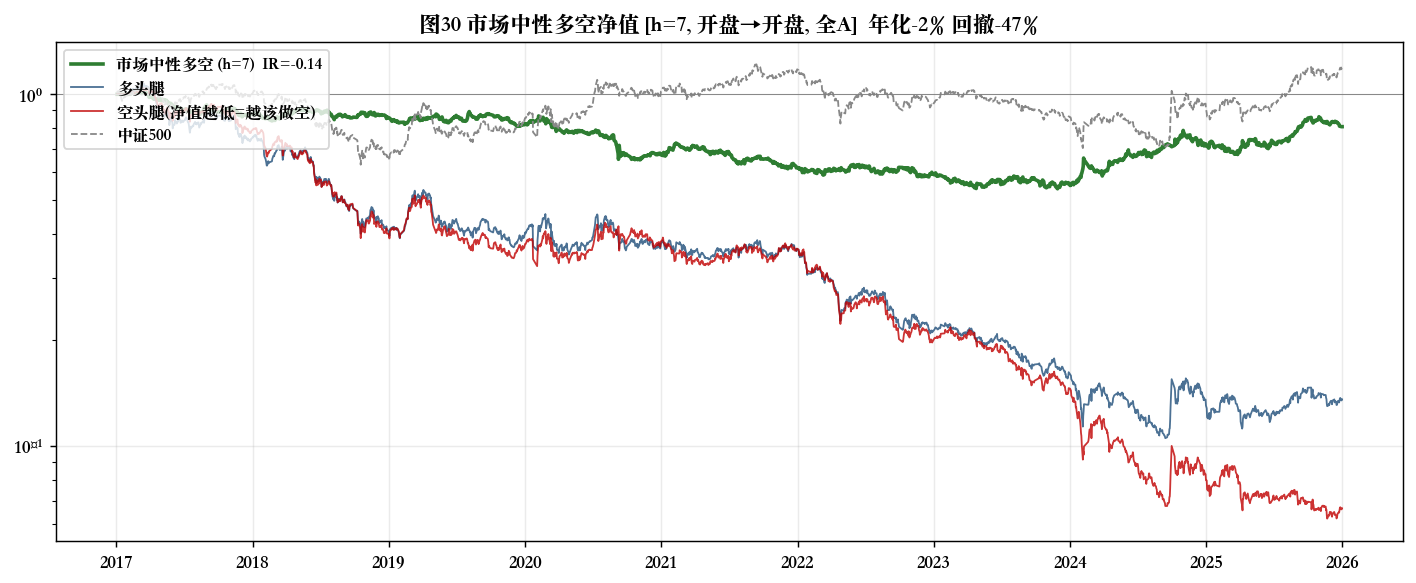
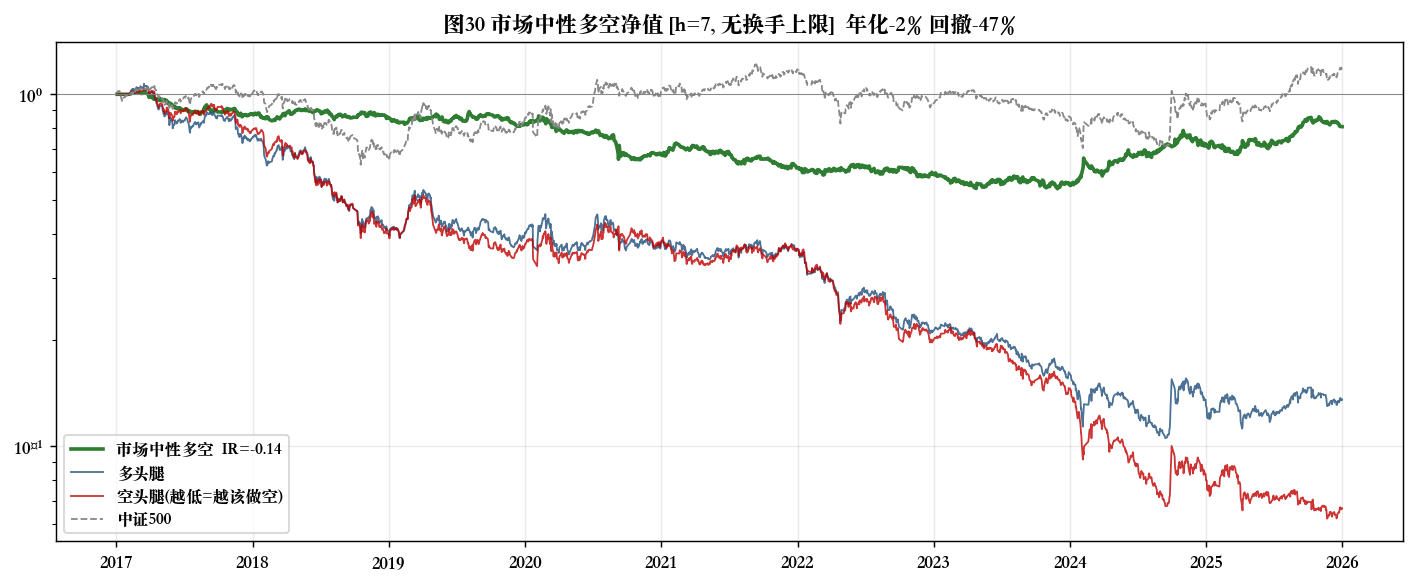
§3.6 market-neutral: forced turnover caps (≤60/40/20%) — strategy is cost-dominated
market_neutral.py now sweeps a per-leg single-rebalance turnover cap (partial move
toward the fresh decile, the report's §3.5 risk-constraint control). Baseline turnover
is 125x/yr (decile fully rotates each 7-day rebalance, ≈100% one-side per leg).

Tightening the cap improves return/IR/drawdown MONOTONICALLY:
  no cap:  -1.7%  IR -0.14  maxDD -47%  turn 125x
  ≤60%:    +0.1%  IR  0.01  maxDD -32%  turn  86x
  ≤40%:    +0.9%  IR  0.11  maxDD -21%  turn  58x
  ≤20%:    +1.4%  IR  0.21  maxDD -16%  turn  29x

The signal is cost-dominated: cost savings (~20%->~5%/yr) outweigh the signal dilution,
flipping it from negative to marginally positive — an empirical confirmation of the
report's §3.5 turnover/excess balance. But even the best tier (≤20%) is only +1.4% /
IR 0.21: realistic OOS tradable return stays thin. Adds fig31 + turnover table.

diff --git a/scripts/market_neutral.py b/scripts/market_neutral.py
@@ -3,9 +3,12 @@
 Dollar-neutral decile long-short: long the top-decile of Ê(α), short the bottom-decile,
 equal-weight each leg, rebalance every HOLD trading days, execute at next-day open,
 mark to market DAILY (open-to-open). Transaction cost Tc on rebalance turnover.
-Outputs a daily NAV curve (fig30), long/short leg decomposition vs CSI500, and overall
-+ yearly performance (table). This is the tradable form of the signal (vs the failing
-long-only book) — requires the ability to short.
+
+A per-leg single-rebalance turnover cap (None / 0.6 / 0.4 / 0.2) is applied by a
+partial move toward the fresh decile (w_new = w_old + α·(target − w_old), α = cap/turn)
+— the report's §3.5 risk-constraint turnover control. Compares the cap tiers
+(fig31/table); also writes the baseline leg decomposition (fig30). Shortable universe
+(liquid top-1500, ex-ST — A-share shorting is limited to the securities-lending list).
 """
 import os
 import sys
@@ -22,6 +25,7 @@ _ROOT = os.path.abspath(os.path.join(os.path.dirname(__file__), ".."))
 sys.path.insert(0, _ROOT); sys.path.insert(0, os.path.join(_ROOT, "src"))
 import config            # noqa: E402
 import data_loader as dl  # noqa: E402
+import strategy as stg    # noqa: E402
 
 for _f in ("PingFang SC", "Heiti SC", "Songti SC", "Arial Unicode MS", "STHeiti"):
     if any(_f in f.name for f in font_manager.fontManager.ttflist):
@@ -29,21 +33,70 @@ for _f in ("PingFang SC", "Heiti SC", "Songti SC", "Arial Unicode MS", "STHeiti"
 rcParams["axes.unicode_minus"] = False
 BLUE, RED, GREEN, GREY = "#1f4e79", "#c00000", "#2e7d32", "#888888"
 TC = config.STRAT_TC
-HOLD = 7
-DECILE = 0.10
-MAXUNI = 1500
-Y = 252
+HOLD, DECILE, MAXUNI, Y = 7, 0.10, 1500, 252
 
 
-def perf(daily_ret, nav):
-    r = pd.Series(daily_ret).dropna()
-    ann = r.mean() * Y
-    vol = r.std() * np.sqrt(Y)
-    ir = ann / vol if vol > 0 else np.nan
-    nav = pd.Series(nav)
-    mdd = (nav / nav.cummax() - 1.0).min()
-    return {"ann_return": ann, "ann_vol": vol, "IR": ir, "max_drawdown": mdd,
-            "win_rate": float((r > 0).mean())}
+def _cap_move(w_old, w_tgt, cap):
+    """Partial move toward the target decile so one-side turnover ≤ cap."""
+    if cap is None:
+        return w_tgt
+    t = float(np.abs(w_tgt.to_numpy() - w_old.to_numpy()).sum()) / 2.0
+    if t <= cap or t == 0:
+        return w_tgt
+    return w_old + (cap / t) * (w_tgt - w_old)
+
+
+def run_ls(op, amt, pw, oo_daily, mkt, codes, dates, st_iv, turnover_cap=None):
+    code_index = pd.Index(codes); T = len(dates)
+    first = pw.notna().any(axis=1).to_numpy().argmax()
+    exec_days = set(range(first + 1, T - 1, HOLD))
+    lw = pd.Series(0.0, index=codes); sw = pd.Series(0.0, index=codes)
+    pend, rec, turns = {}, [], []
+    nav_ls = nav_long = nav_short = nav_mkt = 1.0
+    for j in range(T):
+        cost = 0.0
+        if j in pend:
+            tl_w, ts_w = pend.pop(j)
+            tl_w = _cap_move(lw, tl_w, turnover_cap)
+            ts_w = _cap_move(sw, ts_w, turnover_cap)
+            t_l = float(np.abs(tl_w.to_numpy() - lw.to_numpy()).sum()) / 2.0
+            t_s = float(np.abs(ts_w.to_numpy() - sw.to_numpy()).sum()) / 2.0
+            cost = TC * (t_l + t_s); turns.append(t_l + t_s)
+            lw, sw = tl_w, ts_w
+        r = oo_daily.iloc[j].fillna(0.0).to_numpy()
+        lr = float(np.dot(lw.to_numpy(), r)); sr = float(np.dot(sw.to_numpy(), r))
+        ls_ret = lr - sr - cost
+        mr = float(mkt.iloc[j]) if np.isfinite(mkt.iloc[j]) else 0.0
+        nav_ls *= (1 + ls_ret); nav_long *= (1 + lr - cost / 2); nav_short *= (1 + sr); nav_mkt *= (1 + mr)
+        rec.append((dates[j], nav_ls, nav_long, nav_short, nav_mkt, ls_ret, lr, sr, mr))
+        for w in (lw, sw):
+            g = w.to_numpy() * (1 + r); s = g.sum()
+            if s > 0:
+                w.iloc[:] = g / s
+        if (j + 1) in exec_days and j + 1 < T:
+            d = dates[j]
+            st_set = stg.is_st_on(st_iv, d)
+            ok = (oo_daily.iloc[j].notna() & oo_daily.iloc[j + 1].notna() & pw.iloc[j].notna()
+                  & (amt.iloc[j].fillna(0) > 0)).to_numpy()
+            ok &= ~code_index.isin(st_set)
+            liq = amt.iloc[j].reindex(code_index[ok]).fillna(0).sort_values(ascending=False)
+            x = pw.iloc[j].reindex(liq.head(MAXUNI).index).dropna().sort_values()
+            k = max(int(len(x) * DECILE), 1)
+            nlw = pd.Series(0.0, index=codes); nlw[x.index[-k:]] = 1.0 / k
+            nsw = pd.Series(0.0, index=codes); nsw[x.index[:k]] = 1.0 / k
+            pend[j + 1] = (nlw, nsw)
+    dd = pd.DataFrame(rec, columns=["trade_date", "nav_ls", "nav_long", "nav_short",
+                                    "nav_mkt", "ls_ret", "long_ret", "short_ret", "mkt_ret"])
+    ann_turn = (np.mean(turns) * (Y / HOLD) * 2) if turns else 0.0
+    return dd, ann_turn
+
+
+def stats(dd):
+    r = dd["ls_ret"]
+    nav = dd["nav_ls"]
+    return {"ann": r.mean() * Y, "vol": r.std() * np.sqrt(Y),
+            "ir": r.mean() / r.std() * np.sqrt(Y) if r.std() > 0 else np.nan,
+            "mdd": (nav / nav.cummax() - 1).min(), "win": (r > 0).mean()}
 
 
 def main():
@@ -51,10 +104,7 @@ def main():
     panel = dl.load_panel(columns=["ts_code", "trade_date", "open", "amount", "adj_factor"])
     basic = dl.load_stock_basic(); uni = dl.select_universe(panel, basic)
     panel = panel[panel.ts_code.isin(uni)]
-    nc = pd.read_parquet(config.NAMECHANGE)
-    import strategy as stg
-    st_iv = stg.st_codes_by_date(nc)
-
+    st_iv = stg.st_codes_by_date(pd.read_parquet(config.NAMECHANGE))
     p = panel.sort_values(["ts_code", "trade_date"]).copy()
     p["open_hfq"] = p["open"] * p["adj_factor"]
     dates = np.sort(p.trade_date.unique()).astype(str); codes = sorted(p.ts_code.unique())
@@ -62,100 +112,56 @@ def main():
     amt = p.pivot(index="trade_date", columns="ts_code", values="amount").reindex(dates, axis=0).reindex(codes, axis=1)
     pw = pd.read_parquet(config.CACHE_DIR + "/alpha_pred_full_a.parquet").pivot(
         index="trade_date", columns="ts_code", values="pred").reindex(dates, axis=0).reindex(codes, axis=1)
-    oo_daily = (op.shift(-1) / op - 1.0)                          # open_j -> open_{j+1}
+    oo_daily = op.shift(-1) / op - 1.0
     csi = pd.read_parquet(config.CSI500_RAW); csi["trade_date"] = csi.trade_date.astype(str)
     bo = csi.set_index("trade_date")["open"].reindex(dates).astype(float)
-    mkt = (bo.shift(-1) / bo - 1.0)                               # CSI500 open-to-open
+    mkt = bo.shift(-1) / bo - 1.0
 
-    code_index = pd.Index(codes)
-    T = len(dates)
-    first = pw.notna().any(axis=1).to_numpy().argmax()           # first day with predictions
-    exec_days = set(range(first + 1, T - 1, HOLD))               # rebalance executions
-    lw = pd.Series(0.0, index=codes); sw = pd.Series(0.0, index=codes)
-    pend = {}
-    nav_ls, nav_long, nav_short, nav_mkt = 1.0, 1.0, 1.0, 1.0
-    rec, turns = [], []
+    caps = [("无上限(基线)", None), ("≤60%", 0.60), ("≤40%", 0.40), ("≤20%", 0.20)]
+    results, navs = [], {}
+    for name, cap in caps:
+        dd, ann_turn = run_ls(op, amt, pw, oo_daily, mkt, codes, dates, st_iv, cap)
+        s = stats(dd); navs[name] = dd
+        long_ex = (dd["long_ret"] - dd["mkt_ret"]).mean() * Y
+        short_ex = (dd["mkt_ret"] - dd["short_ret"]).mean() * Y
+        results.append((name, s["ann"], s["vol"], s["ir"], s["mdd"], ann_turn, long_ex, short_ex))
+        if cap is None:                                        # baseline leg decomposition (fig30)
+            dd.to_parquet(os.path.join(config.CACHE_DIR, "market_neutral_daily.parquet"), index=False)
+            fig, ax = plt.subplots(figsize=(11, 4.6))
+            x = pd.to_datetime([str(v) for v in dd["trade_date"]], format="%Y%m%d")
+            ax.plot(x, dd["nav_ls"], color=GREEN, lw=2, label=f"市场中性多空  IR={s['ir']:.2f}")
+            ax.plot(x, dd["nav_long"], color=BLUE, lw=1, alpha=0.8, label="多头腿")
+            ax.plot(x, dd["nav_short"], color=RED, lw=1, alpha=0.8, label="空头腿(越低=越该做空)")
+            ax.plot(x, dd["nav_mkt"], color=GREY, lw=1, ls="--", label="中证500")
+            ax.set_yscale("log"); ax.axhline(1, color="grey", lw=0.5)
+            ax.set_title(f"图30 市场中性多空净值 [h=7, 无换手上限]  年化{s['ann']*100:.0f}% 回撤{s['mdd']*100:.0f}%")
+            ax.legend(loc="lower left", fontsize=9); ax.grid(alpha=0.25)
+            fig.tight_layout(); fig.savefig(os.path.join(config.FIGURE_DIR, "fig30_market_neutral.png"), dpi=130, bbox_inches="tight"); plt.close(fig)
 
-    for j in range(T):
-        cost = 0.0
-        if j in pend:                                            # rebalance at open_j
-            nlw, nsw = pend.pop(j)
-            t_l = float(np.abs(nlw.to_numpy() - lw.to_numpy()).sum()) / 2.0
-            t_s = float(np.abs(nsw.to_numpy() - sw.to_numpy()).sum()) / 2.0
-            cost = TC * (t_l + t_s); turns.append(t_l + t_s)
-            lw, sw = nlw, nsw
-        r = oo_daily.iloc[j].fillna(0.0).to_numpy()
-        lr = float(np.dot(lw.to_numpy(), r)); sr = float(np.dot(sw.to_numpy(), r))
-        ls_ret = lr - sr - cost                                  # dollar-neutral spread
-        mr = float(mkt.iloc[j]) if np.isfinite(mkt.iloc[j]) else 0.0
-        nav_ls *= (1 + ls_ret); nav_long *= (1 + lr - cost / 2); nav_short *= (1 + sr); nav_mkt *= (1 + mr)
-        rec.append((dates[j], nav_ls, nav_long, nav_short, nav_mkt, ls_ret, lr, sr, mr))
-        for w in (lw, sw):                                       # buy-and-hold drift each leg
-            g = w.to_numpy() * (1 + r); s = g.sum()
-            if s > 0:
-                w.iloc[:] = g / s
-        # decide at close j -> execute open_{j+1}
-        if (j + 1) in exec_days and j + 1 < T:
-            d = dates[j]
-            st_set = stg.is_st_on(st_iv, d)
-            ok = (oo_daily.iloc[j].notna() & oo_daily.iloc[j + 1].notna() & pw.iloc[j].notna()
-                  & (amt.iloc[j].fillna(0) > 0)).to_numpy()
-            ok &= ~code_index.isin(st_set)
-            cand = code_index[ok]
-            liq = amt.iloc[j].reindex(cand).fillna(0).sort_values(ascending=False)
-            u = liq.head(MAXUNI).index
-            x = pw.iloc[j].reindex(u).dropna().sort_values()
-            k = max(int(len(x) * DECILE), 1)
-            bot, top = x.index[:k], x.index[-k:]
-            nlw = pd.Series(0.0, index=codes); nlw[top] = 1.0 / len(top)
-            nsw = pd.Series(0.0, index=codes); nsw[bot] = 1.0 / len(bot)
-            pend[j + 1] = (nlw, nsw)
-
-    dd = pd.DataFrame(rec, columns=["trade_date", "nav_ls", "nav_long", "nav_short",
-                                    "nav_mkt", "ls_ret", "long_ret", "short_ret", "mkt_ret"])
-    dd["year"] = dd["trade_date"].str[:4]
-    dd.to_parquet(os.path.join(config.CACHE_DIR, "market_neutral_daily.parquet"), index=False)
-
-    ov = perf(dd["ls_ret"], dd["nav_ls"])
-    ann_turn = np.mean(turns) * (Y / HOLD) * 2 if turns else 0   # two-way (both legs)
-    # leg decomposition vs market (which side drives the L/S?)
-    long_ex = (dd["long_ret"] - dd["mkt_ret"]).mean() * Y        # long leg excess vs CSI500
-    short_ex = (dd["mkt_ret"] - dd["short_ret"]).mean() * Y      # short leg contribution
-
-    yr = dd.groupby("year").apply(lambda g: pd.Series({
-        "年化收益": g["ls_ret"].mean() * Y,
-        "IR": g["ls_ret"].mean() / g["ls_ret"].std() * np.sqrt(Y) if g["ls_ret"].std() > 0 else np.nan,
-        "最大回撤": ((1 + g["ls_ret"]).cumprod() / (1 + g["ls_ret"]).cumprod().cummax() - 1).min(),
-        "多头超额": (g["long_ret"] - g["mkt_ret"]).mean() * Y,
-        "空头贡献": (g["mkt_ret"] - g["short_ret"]).mean() * Y,
-    }))
-
-    t = pd.DataFrame({"市场中性 (h=7 多空, 扣费)": [
-        f"{ov['ann_return']*100:.1f}%", f"{ov['ann_vol']*100:.1f}%", f"{ov['IR']:.2f}",
-        f"{ov['max_drawdown']*100:.1f}%", f"{ov['win_rate']*100:.1f}%", f"{ann_turn:.0f}倍",
-        f"{long_ex*100:+.1f}%", f"{short_ex*100:+.1f}%"]},
-        index=["年化收益", "年化波动", "信息比率", "最大回撤", "日胜率", "年化双边换手",
-               "多头超额(vs500)", "空头贡献(vs500)"])
-    t.to_csv(os.path.join(config.TABLE_DIR, "market_neutral_perf.csv"))
+    tab = pd.DataFrame(results, columns=["换手上限", "年化收益", "年化波动", "IR", "最大回撤",
+                                         "年化双边换手", "多头超额", "空头贡献"]).set_index("换手上限")
+    tab.to_csv(os.path.join(config.TABLE_DIR, "market_neutral_turnover.csv"))
+    fmt = tab.copy()
+    for c in ["年化收益", "年化波动", "最大回撤", "多头超额", "空头贡献"]:
+        fmt[c] = (tab[c] * 100).round(1).astype(str) + "%"
+    fmt["IR"] = tab["IR"].round(2); fmt["年化双边换手"] = tab["年化双边换手"].round(0).astype(int).astype(str) + "倍"
     with open(os.path.join(config.TABLE_DIR, "market_neutral.md"), "w") as f:
-        f.write("### §3.6 市场中性多空回测 (h=7, 开盘→开盘, 全A, 2017-2025)\n\n")
-        f.write(t.to_markdown() + "\n\n### 分年度\n\n")
-        f.write(yr.round(3).assign(**{c: (yr[c] * 100).round(1).astype(str) + "%"
-                for c in ["年化收益", "最大回撤", "多头超额", "空头贡献"]}).to_markdown() + "\n")
+        f.write("### §3.6 市场中性多空 — 换手率上限对比 (h=7, 开盘→开盘, 可融券口径, 2017-2025)\n\n")
+        f.write("_单次单腿换手上限; 通过向新 decile 部分移动实现_\n\n")
+        f.write(fmt.to_markdown() + "\n")
 
     fig, ax = plt.subplots(figsize=(11, 4.6))
-    x = pd.to_datetime([str(v) for v in dd["trade_date"]], format="%Y%m%d")
-    ax.plot(x, dd["nav_ls"], color=GREEN, lw=2, label=f"市场中性多空 (h=7)  IR={ov['IR']:.2f}")
-    ax.plot(x, dd["nav_long"], color=BLUE, lw=1, alpha=0.8, label="多头腿")
-    ax.plot(x, dd["nav_short"], color=RED, lw=1, alpha=0.8, label="空头腿(净值越低=越该做空)")
-    ax.plot(x, dd["nav_mkt"], color=GREY, lw=1, ls="--", label="中证500")
+    cols = {"无上限(基线)": GREY, "≤60%": BLUE, "≤40%": GREEN, "≤20%": RED}
+    x = pd.to_datetime([str(v) for v in navs["无上限(基线)"]["trade_date"]], format="%Y%m%d")
+    for name, _ in caps:
+        s = stats(navs[name])
+        ax.plot(x, navs[name]["nav_ls"], color=cols[name], lw=1.8,
+                label=f"{name}: 年化{s['ann']*100:+.0f}% IR{s['ir']:+.2f} 换手{[r[5] for r in results if r[0]==name][0]:.0f}x")
     ax.set_yscale("log"); ax.axhline(1, color="grey", lw=0.5)
-    ax.set_title(f"图30 市场中性多空净值 [h=7, 开盘→开盘, 全A]  年化{ov['ann_return']*100:.0f}% "
-                 f"回撤{ov['max_drawdown']*100:.0f}%")
+    ax.set_title("图31 换手率上限对市场中性多空的影响 [h=7, 开盘→开盘, 全A可融券]")
     ax.legend(loc="upper left", fontsize=9); ax.grid(alpha=0.25)
-    fig.tight_layout(); fig.savefig(os.path.join(config.FIGURE_DIR, "fig30_market_neutral.png"),
-                                    dpi=130, bbox_inches="tight"); plt.close(fig)
-    print(t.to_string()); print("\n分年度:\n", yr.round(3).to_string())
+    fig.tight_layout(); fig.savefig(os.path.join(config.FIGURE_DIR, "fig31_turnover_caps.png"), dpi=130, bbox_inches="tight"); plt.close(fig)
+    print(fmt.to_string())
 
 
 if __name__ == "__main__":

diff --git a/report/tables/market_neutral.md b/report/tables/market_neutral.md
@@ -1,26 +1,10 @@
-### §3.6 市场中性多空回测 (h=7, 开盘→开盘, 全A, 2017-2025)
+### §3.6 市场中性多空 — 换手率上限对比 (h=7, 开盘→开盘, 可融券口径, 2017-2025)
 
-|                 | 市场中性 (h=7 多空, 扣费)   |
-|:----------------|:----------------------------|
-| 年化收益        | -1.7%                       |
-| 年化波动        | 12.4%                       |
-| 信息比率        | -0.14                       |
-| 最大回撤        | -47.3%                      |
-| 日胜率          | 48.6%                       |
-| 年化双边换手    | 125倍                       |
-| 多头超额(vs500) | -14.5%                      |
-| 空头贡献(vs500) | +31.4%                      |
+_单次单腿换手上限; 通过向新 decile 部分移动实现_
 
-### 分年度
-
-|   year | 年化收益   |     IR | 最大回撤   | 多头超额   | 空头贡献   |
-|-------:|:-----------|-------:|:-----------|:-----------|:-----------|
-|   2017 | -13.2%     | -1.65  | -15.6%     | -20.8%     | 23.8%      |
-|   2018 | -1.4%      | -0.165 | -6.8%      | -9.3%      | 26.6%      |
-|   2019 | -4.4%      | -0.492 | -9.2%      | -18.1%     | 32.4%      |
-|   2020 | -19.7%     | -1.242 | -25.0%     | -13.9%     | 13.3%      |
-|   2021 | -8.1%      | -0.757 | -15.4%     | -8.1%      | 18.7%      |
-|   2022 | -3.6%      | -0.308 | -7.8%      | -21.4%     | 37.1%      |
-|   2023 | -5.7%      | -0.471 | -9.9%      | -10.0%     | 22.5%      |
-|   2024 | 28.5%      |  1.631 | -11.1%     | -15.9%     | 63.8%      |
-|   2025 | 12.9%      |  0.895 | -8.3%      | -12.8%     | 44.7%      |
+| 换手上限     | 年化收益   | 年化波动   |    IR | 最大回撤   | 年化双边换手   | 多头超额   | 空头贡献   |
+|:-------------|:-----------|:-----------|------:|:-----------|:---------------|:-----------|:-----------|
+| 无上限(基线) | -1.7%      | 12.4%      | -0.14 | -47.3%     | 125倍          | -14.5%     | 31.4%      |
+| ≤60%         | 0.1%       | 9.9%       |  0.01 | -31.9%     | 86倍           | -12.0%     | 24.9%      |
+| ≤40%         | 0.9%       | 8.3%       |  0.11 | -21.1%     | 58倍           | -9.7%      | 19.2%      |
+| ≤20%         | 1.4%       | 6.6%       |  0.21 | -16.2%     | 29倍           | -6.4%      | 12.0%      |

diff --git a/RESULTS.md b/RESULTS.md
@@ -192,7 +192,24 @@ OLS 随因子增多发散，岭回归稳定（见 [NOTES.md](NOTES.md)）。
 - **结论**：即便取信号最可交易的形态（多空 + 7 日 + 可融券），样本外扣费后**仍不赚钱**——
   signal 真实但**太快（换手成本）、太偏空头（A 股难融券）**。这与研报样本内 +50% 形成完整对照。
 
-图30：市场中性净值（绿）+ 多头腿/空头腿/中证500 分解。表见 `report/tables/market_neutral.md`。
+图30：市场中性净值（绿）+ 多头腿/空头腿/中证500 分解。
+
+### 强制换手率上限（§3.5 风险约束法，图31）
+基线换手 **125 倍/年**（单次单腿≈100% 全换）。对单次单腿换手设上限（向新 decile 部分移动实现），
+扫描 ≤60% / ≤40% / ≤20%：
+
+| 换手上限 | 年化收益 | IR | 最大回撤 | 年化双边换手 | 多头超额 | 空头贡献 |
+|---|---|---|---|---|---|---|
+| 无上限(基线) | −1.7% | −0.14 | −47.3% | 125倍 | −14.5% | +31.4% |
+| ≤60% | +0.1% | 0.01 | −31.9% | 86倍 | −12.0% | +24.9% |
+| ≤40% | +0.9% | 0.11 | −21.1% | 58倍 | −9.7% | +19.2% |
+| **≤20%** | **+1.4%** | **+0.21** | **−16.2%** | 29倍 | −6.4% | +12.0% |
+
+- **策略是成本主导的**：收紧换手上限**单调改善** 收益/IR/回撤——从 −1.7% / IR −0.14 / 回撤 −47%
+  一路改善到 **≤20% 的 +1.4% / IR +0.21 / 回撤 −16%**，换手从 125 倍降到 29 倍（成本 ~20%→~5%/年）。
+- 信号被稀释（多头负担、空头贡献都缩小），但**省下的成本 > 稀释的信号**，故净值变好；趋势显示
+  更低的上限可能还能再好一点（成本仍是 binding）。这正是研报 §3.5"换手与超额的最优平衡"的实证。
+- **但即便最优档（≤20%）也只是 +1.4% / IR 0.21**——样本外现实可交易收益仍很薄。
 
 ## §3.6.3 交易成本敏感性（退化）
 研报中 Tc 0.3%→1% 是对一个**盈利**策略的优雅衰减（超额 50%→21%）。本复现可交易毛
